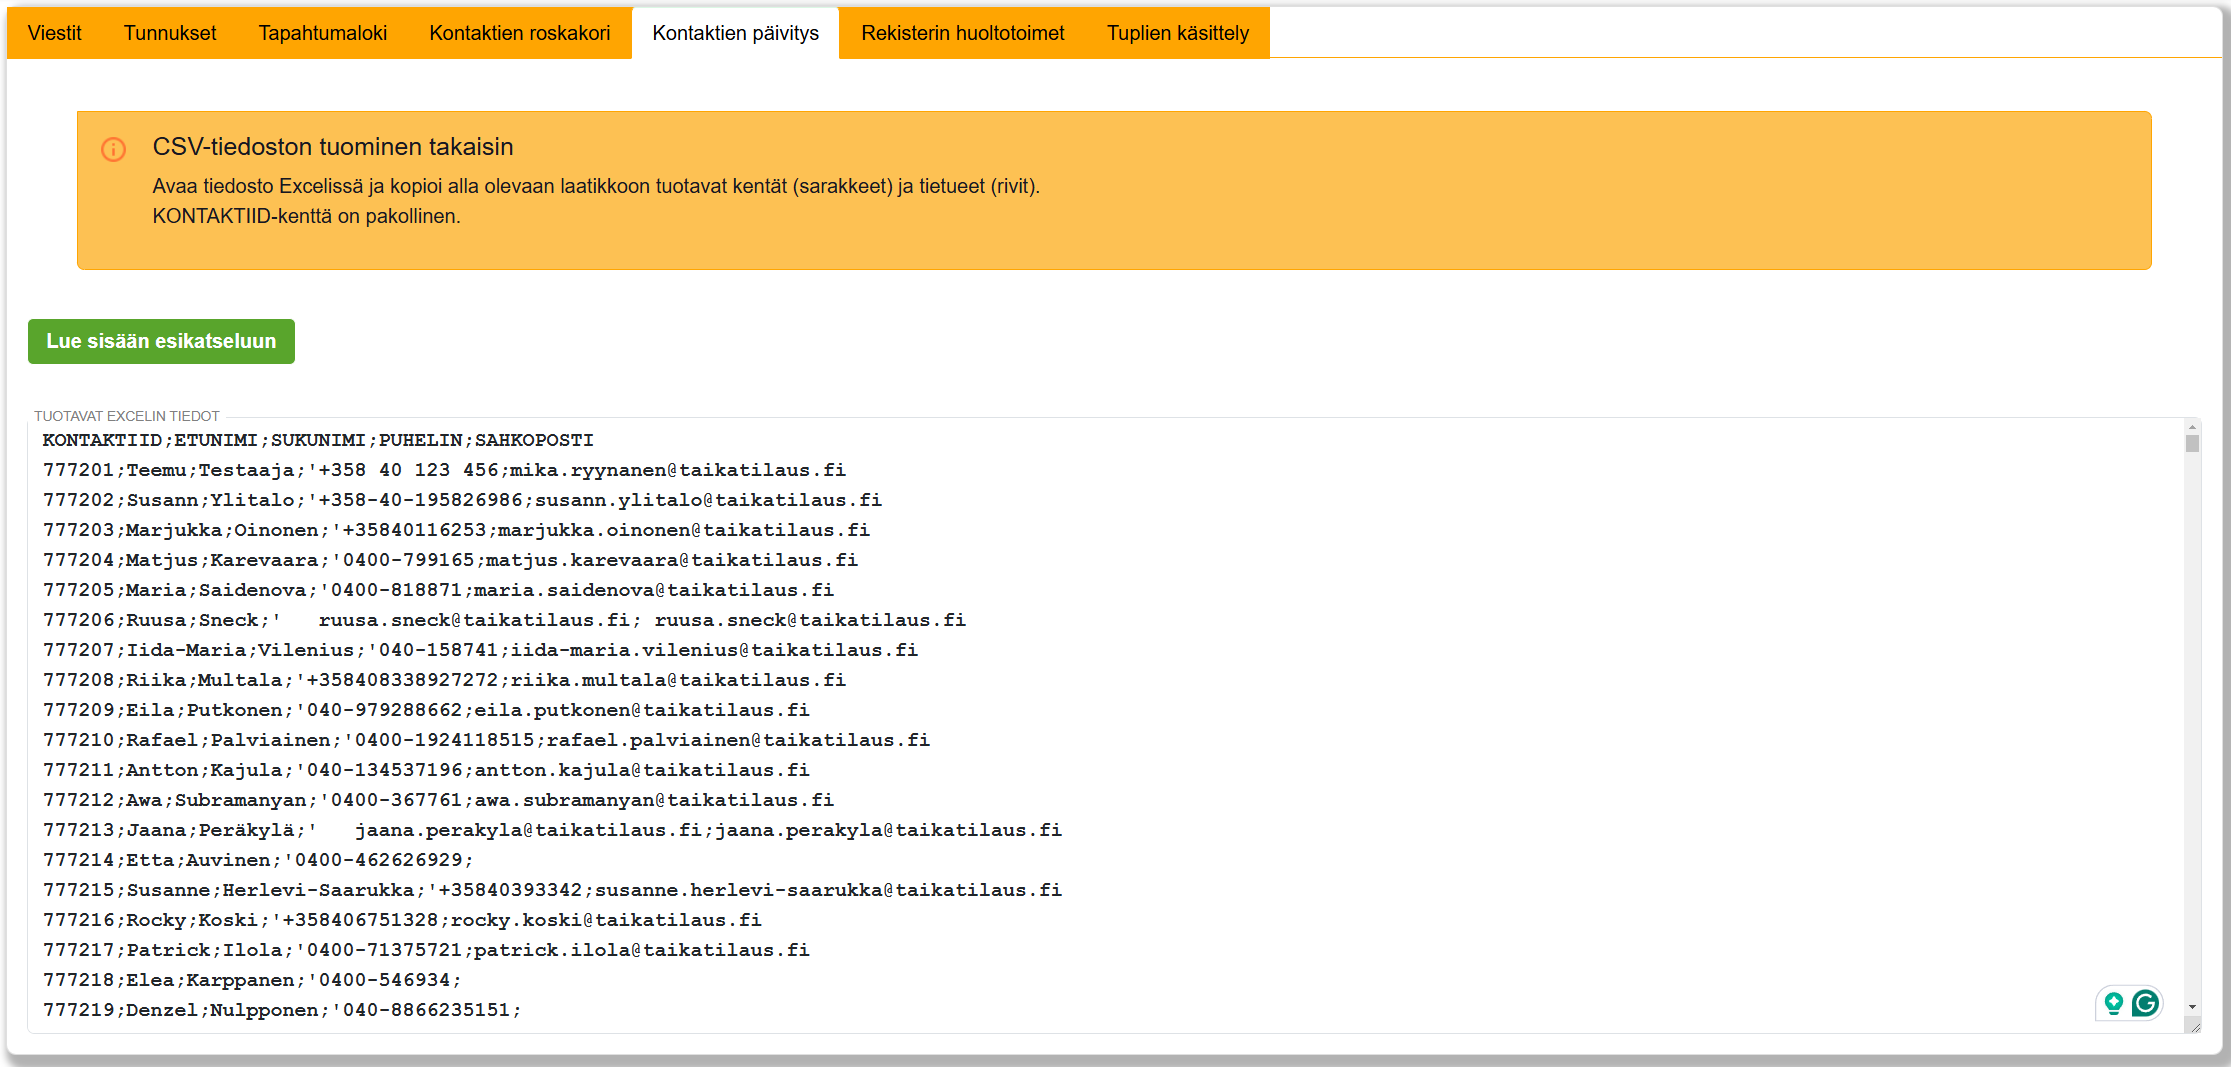
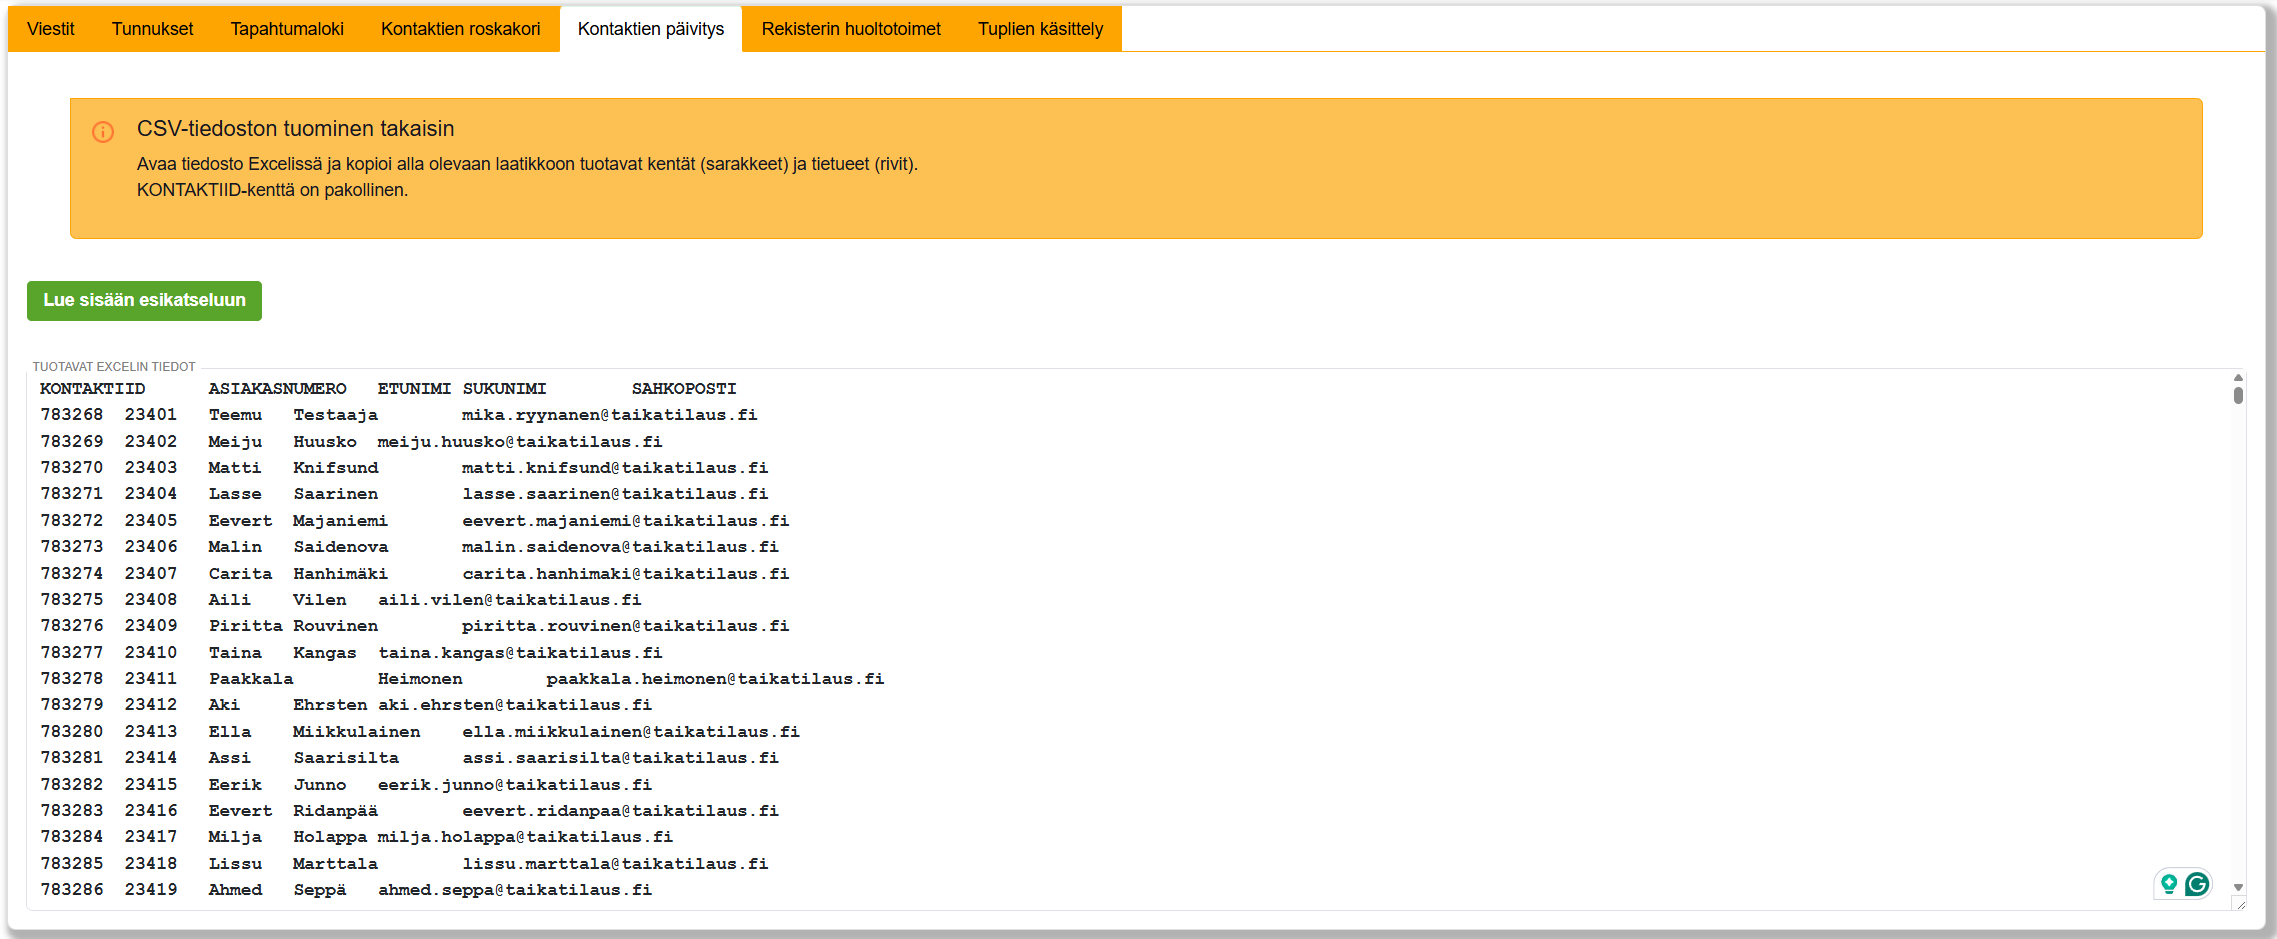
kontaktien oäivitys

diff --git a/docs/ohjeet/yleiset_ominaisuudet/hallinta.md b/docs/ohjeet/yleiset_ominaisuudet/hallinta.md
@@ -91,7 +91,9 @@ Valitsemalla asiakaskortin aktivoimalla täpän asiakasnumeron edessä ja painam
 
 ![Kontaktien roskakori](/img/ohjeet/roskakori3.png)
 
-<!--  ## Kontaktien päivitys
+## Kontaktien päivitys
+
+![Kontaktien päivitys](/img/ohjeet/kontaktien-paivitys.png)
 
 **Kontaktien päivitys** -välilehdellä voit päivittää yhdellä kertaa monta asiakasta ja heidän tietojaan rekisteriin. Tällä toiminnolla voi esimerkiksi ajaa rekisterin tarkistuspalvelun tuottamat muutostiedot tai messuilta kerättyjen listojen päivityksen. Tuontitoiminto tunnistaa muuttuneet tiedot ja kysyy käyttäjältä niiden käsittelystä.
 
@@ -101,7 +103,49 @@ Tämä välilehti on näkyvissä **vain pääkäyttäjille**. Ennen kuin pystyt 
 
 ![Tuplien käsittely](/img/ohjeet/tuplat10.png)
 
-**HUOM! KAIKKI DATA ESIMERKISSÄ ON KEKSITTYÄ!** -->
+**HUOM! KAIKKI DATA ESIMERKISSÄ ON KEKSITTYÄ!**
+
+### Ohjeet kontaktien päivitykseen
+
+1. Aloitetaan kontaktien päivitys painamalla **Luo kontakteista CSV-tiedosto**
+
+![Kontaktien päivitys](/img/ohjeet/kontaktien-paivitys11.png)
+
+2. Valitse kontaktien kentät (esim. etunimi, sukunimi, sähköposti)
+
+![Kontaktien päivitys](/img/ohjeet/kontaktien-paivitys2.png)
+
+3. Kun olet valinnut haluamasi kentät, paina **Luo CSV**
+
+![Kontaktien päivitys](/img/ohjeet/kontaktien-paivitys3.png)
+
+4. Järjestelmä luo tiedoston, jossa on kaikki kontaktit valitsemallasi kentillä. Lataa se koneellesi painamalla **Lataa**-napista.
+
+![Kontaktien päivitys](/img/ohjeet/kontaktien-paivitys4.png)
+
+5. Avaa tiedosto **Excel-tiedostona** (EI CSV-muodossa) ja muokkaa kontaktien tietoja. Kun olet valmis, kopioi tiedot (Ctrl+A -> Ctrl + C)
+
+![Kontaktien päivitys](/img/ohjeet/kontaktien-paivitys5.png)
+
+6. Kun olet valmis, palaa **Kontaktien päivitys** -välilehteen ja paina **Tuo kontaktien tiedot** -painiketta. Liitä kopioimasi tiedot **Tuotavat Excelin tiedot** -kenttään (Ctrl + V). Paina **Luo sisään esikatseluun.**
+
+![Kontaktien päivitys](/img/ohjeet/kontaktien-paivitys6.png)
+
+7. Tarkista tuomasi data esikatselussa. Kun olet tarkistanut datan, paina **Vertaa tietoja tietokantaa**.
+
+![Kontaktien päivitys](/img/ohjeet/kontaktien-paivitys7.png)
+
+8. Tarkista kontaktien muuttuneet tiedot. Muuttuneet tiedot näkyvät **vihreällä** ja **ensimmäisessä sarakkeessa** lukee ovatko kontaktin tiedot muuttuneet. Katso, että muuttuneet tiedot ovat järkeviä. Kun olet valmis, paina **Lue tiedot sisään tietokantaan.**
+
+![Kontaktien päivitys](/img/ohjeet/kontaktien-paivitys8.png)
+
+9. Tieto onnistuneesta tietojen tuonnista näytetään ruudulla.
+
+![Kontaktien päivitys](/img/ohjeet/kontaktien-paivitys9.png)
+
+10. **Tapahtumalokilta** näet tiedot kontaktien muuttuneista tiedoista. 
+
+![Kontaktien päivitys](/img/ohjeet/kontaktien-paivitys10.png)
 
 ## Rekisterin huoltotoimet
 
